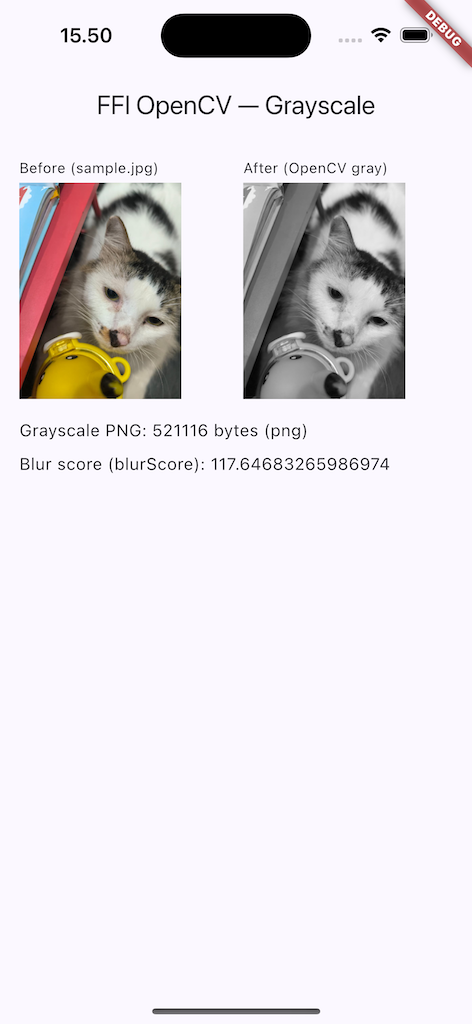
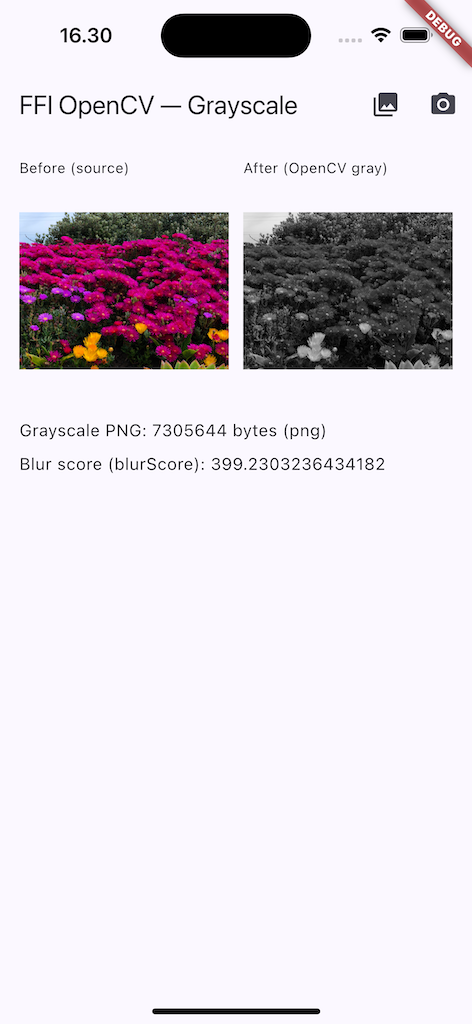
Add image picker: shared source-image provider (fixes double-load), cross-platform gallery+camera, blur score responds to picked images; update README

diff --git a/lib/features/image_processing/presentation/pages/grayscale_page.dart b/lib/features/image_processing/presentation/pages/grayscale_page.dart
@@ -1,21 +1,52 @@
 import 'package:flutter/material.dart';
 import 'package:flutter_riverpod/flutter_riverpod.dart';
+import 'package:image_picker/image_picker.dart';
 
 import '../../../../core/error/failures.dart';
 import '../../domain/entities/processed_image.dart';
 import '../providers/blur_score_controller.dart';
 import '../providers/grayscale_controller.dart';
+import '../providers/source_image_controller.dart';
 
 /// The vertical slice's UI: drives grayscale (image shape) and blur score
 /// (scalar shape) through the full clean stack and renders both.
 class GrayscalePage extends ConsumerWidget {
   const GrayscalePage({super.key});
 
+  /// Picks a photo and feeds its bytes into the SHARED source provider, which
+  /// recomputes both grayscale and blur. This is the only platform/plugin touch
+  /// point — pure presentation. image_picker yields a plain Uint8List, so it
+  /// never crosses the dart:ffi boundary (same role rootBundle plays for the
+  /// default asset).
+  ///
+  /// NOTE (iOS simulator): the simulator's PHPicker cannot return HEIC images —
+  /// pick a JPEG/PNG when testing on the simulator. HEIC works on a real device.
+  Future<void> _pick(WidgetRef ref, ImageSource source) async {
+    final file = await ImagePicker().pickImage(source: source);
+    if (file == null) return; // user cancelled — leave the current source as-is.
+    final bytes = await file.readAsBytes();
+    ref.read(sourceImageControllerProvider.notifier).setImage(bytes);
+  }
+
   @override
   Widget build(BuildContext context, WidgetRef ref) {
     final grayscale = ref.watch(grayscaleControllerProvider);
     return Scaffold(
-      appBar: AppBar(title: const Text('FFI OpenCV — Grayscale')),
+      appBar: AppBar(
+        title: const Text('FFI OpenCV — Grayscale'),
+        actions: [
+          IconButton(
+            icon: const Icon(Icons.photo_library),
+            tooltip: 'Pick from gallery',
+            onPressed: () => _pick(ref, ImageSource.gallery),
+          ),
+          IconButton(
+            icon: const Icon(Icons.photo_camera),
+            tooltip: 'Take a photo',
+            onPressed: () => _pick(ref, ImageSource.camera),
+          ),
+        ],
+      ),
       body: grayscale.when(
         loading: () => const Center(child: CircularProgressIndicator()),
         error: (error, _) => Center(
@@ -42,6 +73,11 @@ class _ResultView extends ConsumerWidget {
   @override
   Widget build(BuildContext context, WidgetRef ref) {
     final blur = ref.watch(blurScoreControllerProvider);
+    // The "before" image is whatever the shared source currently holds (sample
+    // or a picked photo) — rendered from bytes so it stays honest after a pick.
+    // We reach this branch only once grayscale has data, so the source has
+    // already resolved; value (nullable) is non-null in practice here.
+    final source = ref.watch(sourceImageControllerProvider).value;
     return SingleChildScrollView(
       padding: const EdgeInsets.all(16),
       child: Column(
@@ -51,8 +87,10 @@ class _ResultView extends ConsumerWidget {
             crossAxisAlignment: CrossAxisAlignment.start,
             children: [
               _Labelled(
-                label: 'Before (sample.jpg)',
-                child: Image.asset('assets/sample.jpg', fit: BoxFit.contain),
+                label: 'Before (source)',
+                child: source == null
+                    ? const SizedBox.shrink()
+                    : Image.memory(source, fit: BoxFit.contain),
               ),
               const SizedBox(width: 12),
               _Labelled(

diff --git a/lib/features/image_processing/presentation/providers/source_image_controller.dart b/lib/features/image_processing/presentation/providers/source_image_controller.dart
@@ -1,0 +1,34 @@
+import 'dart:typed_data';
+
+import 'package:flutter/services.dart' show rootBundle;
+import 'package:flutter_riverpod/flutter_riverpod.dart';
+
+/// The SHARED source image both ops process.
+///
+/// This is the single owner of "the bytes currently being processed". Both
+/// [GrayscaleController] and [BlurScoreController] watch it, so:
+///   - the bundled sample.jpg is loaded exactly ONCE here (not once per
+///     controller — that was the old double-load), and
+///   - picking a new image (see [setImage]) re-runs both controllers, so
+///     grayscale and blur recompute together off the same source.
+///
+/// It is an [AsyncNotifier] because the default value is loaded asynchronously
+/// from the asset bundle: the first frame is genuinely "loading the default
+/// image", which mirrors the app's original launch behaviour.
+class SourceImageController extends AsyncNotifier<Uint8List> {
+  @override
+  Future<Uint8List> build() async {
+    // The ONE place the source asset is read. rootBundle is a presentation/
+    // platform concern (like the picker) — it never touches dart:ffi.
+    return (await rootBundle.load('assets/sample.jpg')).buffer.asUint8List();
+  }
+
+  /// Swaps the source to a newly picked image. Called from the presentation
+  /// layer after [ImagePicker] returns bytes; watchers recompute automatically.
+  void setImage(Uint8List bytes) => state = AsyncData(bytes);
+}
+
+final sourceImageControllerProvider =
+    AsyncNotifierProvider<SourceImageController, Uint8List>(
+  SourceImageController.new,
+);

diff --git a/lib/features/image_processing/presentation/providers/blur_score_controller.dart b/lib/features/image_processing/presentation/providers/blur_score_controller.dart
@@ -1,9 +1,9 @@
-import 'package:flutter/services.dart' show rootBundle;
 import 'package:flutter_riverpod/flutter_riverpod.dart';
 
 import '../../domain/entities/image_metric.dart';
 import '../../domain/usecases/image_bytes_params.dart';
 import '../../providers/image_processing_providers.dart';
+import 'source_image_controller.dart';
 
 /// Exposes [AsyncValue<ImageMetric>] to the UI — the SCALAR return shape.
 ///
@@ -14,8 +14,9 @@ import '../../providers/image_processing_providers.dart';
 class BlurScoreController extends AsyncNotifier<ImageMetric> {
   @override
   Future<ImageMetric> build() async {
-    final bytes =
-        (await rootBundle.load('assets/sample.jpg')).buffer.asUint8List();
+    // WATCH (not read) the shared source: picking a new image re-runs build()
+    // and recomputes the blur score off the same bytes the grayscale used.
+    final bytes = await ref.watch(sourceImageControllerProvider.future);
     final result =
         await ref.read(computeBlurScoreProvider)(ImageBytesParams(bytes));
     return result.fold(

diff --git a/lib/features/image_processing/presentation/providers/grayscale_controller.dart b/lib/features/image_processing/presentation/providers/grayscale_controller.dart
@@ -1,9 +1,9 @@
-import 'package:flutter/services.dart' show rootBundle;
 import 'package:flutter_riverpod/flutter_riverpod.dart';
 
 import '../../domain/entities/processed_image.dart';
 import '../../domain/usecases/image_bytes_params.dart';
 import '../../providers/image_processing_providers.dart';
+import 'source_image_controller.dart';
 
 /// Exposes [AsyncValue<ProcessedImage>] to the UI — the IMAGE return shape.
 ///
@@ -15,8 +15,9 @@ import '../../providers/image_processing_providers.dart';
 class GrayscaleController extends AsyncNotifier<ProcessedImage> {
   @override
   Future<ProcessedImage> build() async {
-    final bytes =
-        (await rootBundle.load('assets/sample.jpg')).buffer.asUint8List();
+    // WATCH (not read) the shared source: picking a new image re-runs build()
+    // and recomputes the grayscale. .future awaits the source's own async load.
+    final bytes = await ref.watch(sourceImageControllerProvider.future);
     final result =
         await ref.read(convertToGrayscaleProvider)(ImageBytesParams(bytes));
     return result.fold(

diff --git a/README.md b/README.md
@@ -232,6 +232,12 @@ cd ios && pod install && cd ..
 flutter run                 # on a booted arm64 iOS simulator
 ```
 
+> **Image picker on the iOS simulator:** pick a **JPEG/PNG**, not HEIC. The
+> simulator's PHPicker cannot return HEIC images (a known Apple simulator
+> limitation) — it works on a real device. The picker needs
+> `NSPhotoLibraryUsageDescription` and `NSCameraUsageDescription` in
+> `ios/Runner/Info.plist` (already wired); without them iOS crashes on pick.
+
 What the build does (see `native_opencv.podspec` and `ios/Podfile`):
 
 - The `native_opencv` pod compiles the **same** `native/native_opencv.cpp` as Android (with `HAVE_OPENCV=1` selecting the real `cv::` path, the iOS analogue of the CMake compile-definition) and links OpenCV from the xcframework.
@@ -270,7 +276,8 @@ Honest status — two real operations (grayscale image + blur scalar), what's ve
 - ✅ **Grayscale is real.** `OP_GRAYSCALE` runs `cv::imdecode` → `cv::cvtColor(BGR2GRAY)` → `cv::imencode(".png")` in C++ and returns the encoded PNG across FFI.
 - ✅ **Blur score is real.** `OP_BLUR_SCORE` runs `cv::imdecode` → `cv::cvtColor(BGR2GRAY)` → `cv::Laplacian(CV_64F)` → `cv::meanStdDev`, and returns the **variance of the Laplacian** (the standard focus/blur measure — higher = sharper, lower = blurrier) as a `double` across FFI. Beyond being a real op, it proves the architecture carries the **scalar return shape** alongside the image shape — both flow through the same single-entrypoint mechanism.
 - ✅ **iOS works on the arm64 simulator.** The app builds and runs on the arm64 iOS simulator with **real OpenCV** — grayscale (a real ~521 KB PNG) and blur (Laplacian variance), byte-identical to Android because it's the **same** `native/native_opencv.cpp`, linked via a from-source `opencv2.xcframework` and resolved through `DynamicLibrary.process()`. The on-device integration test passes here too. *Remaining item:* device + release builds need the Runner target's **Strip Style = Non-Global Symbols** so the FFI symbols survive release stripping ([flutter#62666](https://github.com/flutter/flutter/issues/62666)) — verified-on-simulator, device-hardening pending (not hidden).
-- ⬜ **Pending:** an image picker (the demo uses a bundled asset) and OpenCV binary-size trimming (custom `BUILD_LIST`).
+- ✅ **Image picker (camera + gallery), cross-platform.** The demo defaults to the bundled `assets/sample.jpg` but you can pick a photo from the AppBar; both grayscale and blur recompute off a **shared `sourceImageController`** (`AsyncNotifier<Uint8List>`), which loads the default asset exactly once. The picker is presentation-only (`image_picker`, plain `Uint8List`) — it never crosses the FFI boundary, so the boundary check still passes. iOS uses the two `NS*UsageDescription` keys; modern Android gallery picking uses the system Photo Picker (no storage permission).
+- ⬜ **Pending:** OpenCV binary-size trimming (custom `BUILD_LIST`).
 
 ---
 